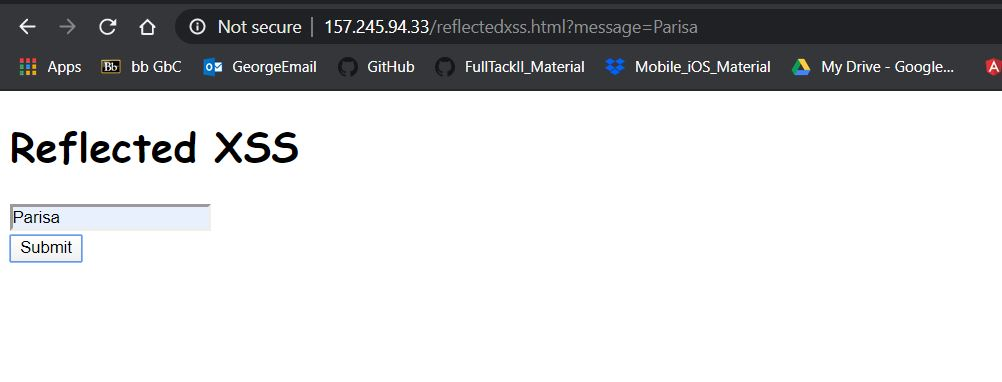
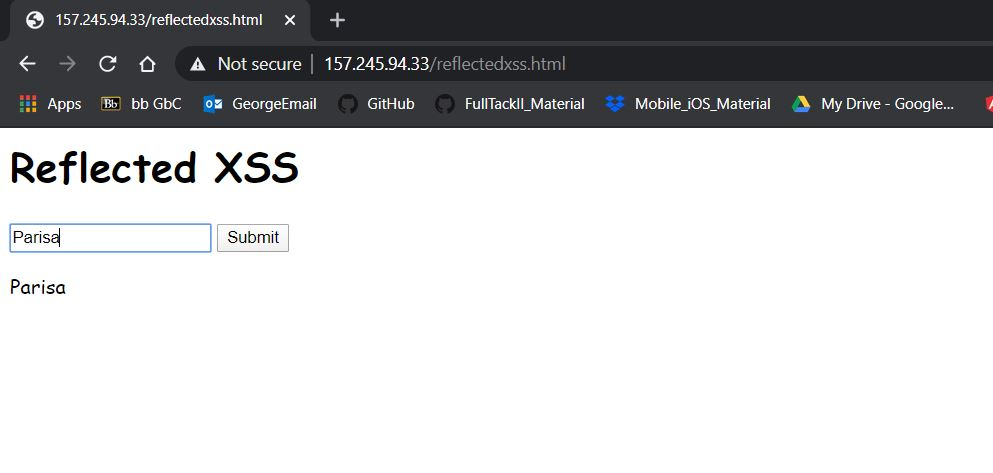
wk12 is updated

Changed region(s): [[0.0, 0.0288, 1.0, 0.288], [0.0, 0.3168, 0.3122, 0.4319], [0.0, 0.4607, 0.281, 0.6911]]

diff --git a/wk12/reflectedxss.html b/wk12/reflectedxss.html
@@ -1,24 +1,19 @@
-<!DOCTYPE html>
-<html>
-    <head lang="en">
-    <meta charset="UTF-8">
-        <script language="JavaScript">
-            function showInput() {
-                document.getElementById('display').innerHTML = 
-                            document.getElementById("user_input").value;
-            }
-        </script>
+<h1>Reflected XSS</h1>
 
-        
-    </head>
-    <body>
-    <h1>Reflected XSS</h1>
-    <form>
-        <input type="text" name="message" id="user_input">
-    </form>
+<form id="myForm">
+    <input type="text" name="myInput" id="myInput">
+    <input type="submit" onclick="msg();">
+</form>
 
-    <input type="submit" onclick="showInput();"><br/>
+<div id="msg"></div>
 
-    <div><span id='display'></span></div>
-    </body>
-</html>
+
+<script>
+    document.getElementById("myForm").addEventListener("click", function(event){
+        event.preventDefault()
+    });
+
+    function msg() {
+        document.getElementById('msg').innerHTML = document.getElementById("myInput").value;
+    }
+</script>

diff --git a/wk12/csrf.html b/wk12/csrf.html
@@ -1,3 +1,4 @@
+
 <script language="javascript" type="text/javascript">
     document.onload = function() { document.getElementById('login').submit(); }
 </script>
@@ -5,6 +6,12 @@
 <form method=POST action="csrf.php" id="login">
     <input type=hidden name=username value=host></input>
     <br>
-    <input type=hidden name=pword value=pass></input>
+    <input type=hidden name=password value=pass></input>
     <br>
 </form>
+
+
+
+
+
+

diff --git a/wk12/csrf_form.php b/wk12/csrf_form.php
@@ -1,29 +1,17 @@
 <?php
     session_start();
+    $_SESSION["confirmation"] = "ABC123";
 
-    function randString($n) { 
-        $characters = '0123456789abcdefghijklmnopqrstuvwxyzABCDEFGHIJKLMNOPQRSTUVWXYZ'; 
-        $randomString = ''; 
-    
-        for ($i = 0; $i < $n; $i++) { 
-            $index = rand(0, strlen($characters) - 1); 
-            $randomString .= $characters[$index]; 
-        } 
-    
-        return $randomString; 
-    }
-
-    $_SESSION["confirmation"] = randString(10);
 ?>
-
-<script language="javascript" type="text/javascript">
-    document.onload = function() { document.getElementById('login').submit(); }
-</script>
-
-<form method=POST action="csrf_action.php" id="login">
-    <input type=hidden name=username value=host></input>
-    <br>
-    <input type=hidden name=pword value=pass></input>
-    <br>
-    <input type=hidden name=confirmation value='<?php $_SESSION["confirmation"]?>'></input>
-</form>
+<html>
+  <body>
+    <form action="csfr_action.php" method="POST">
+      <input name="username" value="host" />
+      <input name="password" value="pass" />
+      <input type="hidden" name="confirmation" value='<?php $_SESSION["confirmation"]?>' />
+    </form>
+    <script>
+      document.forms[0].submit();
+    </script>
+  </body>
+</html>

diff --git a/wk12/csrf_action.php b/wk12/csrf_action.php
@@ -5,11 +5,11 @@
     <br>
     
     <label for="pword">Password:</input>
-    <input type=password name=pword></input>
+    <input type=password name=password></input>
 
     <br>
 
-    <input type=submit name= submit value="Submit Form"/> 
+    <input type=submit name= submit value="Submit the Form"/> 
 </form>
 
 <div id="splash"> 
@@ -18,11 +18,11 @@
     $session_confirm = $_SESSION["confirmation"]; 
     $post_confirm  = $_POST['confirmation'];
 
-    if ($session_confirm == $post_confirm && $_POST['pword'] == 'pass' && $_POST['username'] == 'host'){
-        print "Access Granted!";
+    if ($session_confirm == $post_confirm && $_POST['password'] == 'pass' && $_POST['username'] == 'host'){
+        print "Access Successful!";
     }
     else{
-        print "Access Denied...";
+        print "Access NotSuccsseful";
     }
 ?>
 

diff --git a/wk12/csrf.php b/wk12/csrf.php
@@ -17,10 +17,10 @@
 <?php
 
     if ($_POST['username'] == 'host' && $_POST['pword'] == 'pass'){
-        print "Access Granted!";
+        print "Access susccesfull";
     }
     else{
-        print "Access Denied...";
+        print "Access Denied";
     }
 ?>
 

diff --git a/wk12/storexss.php b/wk12/storexss.php
@@ -1,0 +1,5 @@
+<?php
+$myfile = fopen("webdictionary.txt", "r") or die("Unable to open file!");
+echo fread($myfile,filesize("storedxss.txt"));
+fclose($myfile);
+?>
